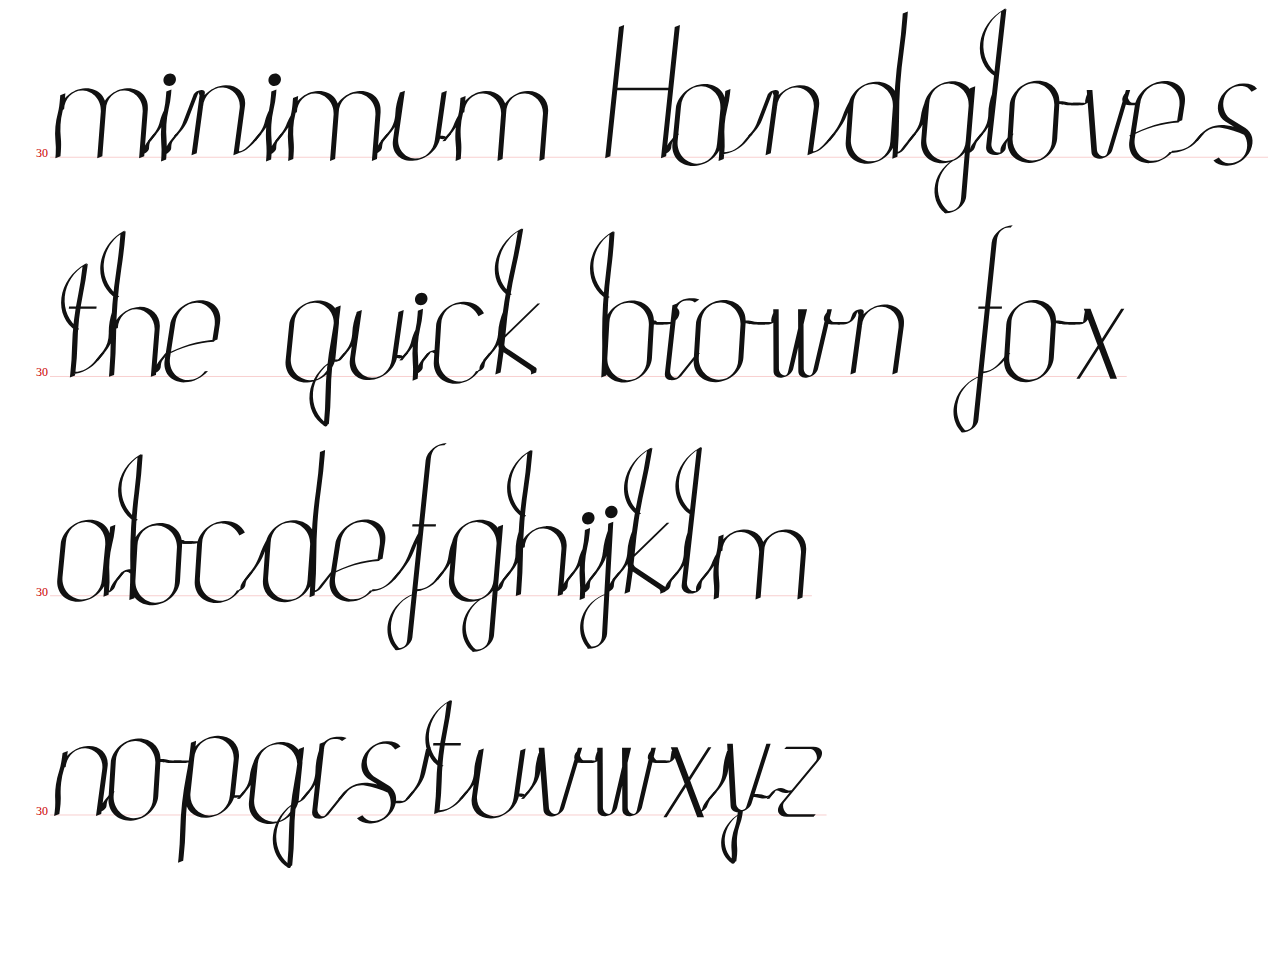
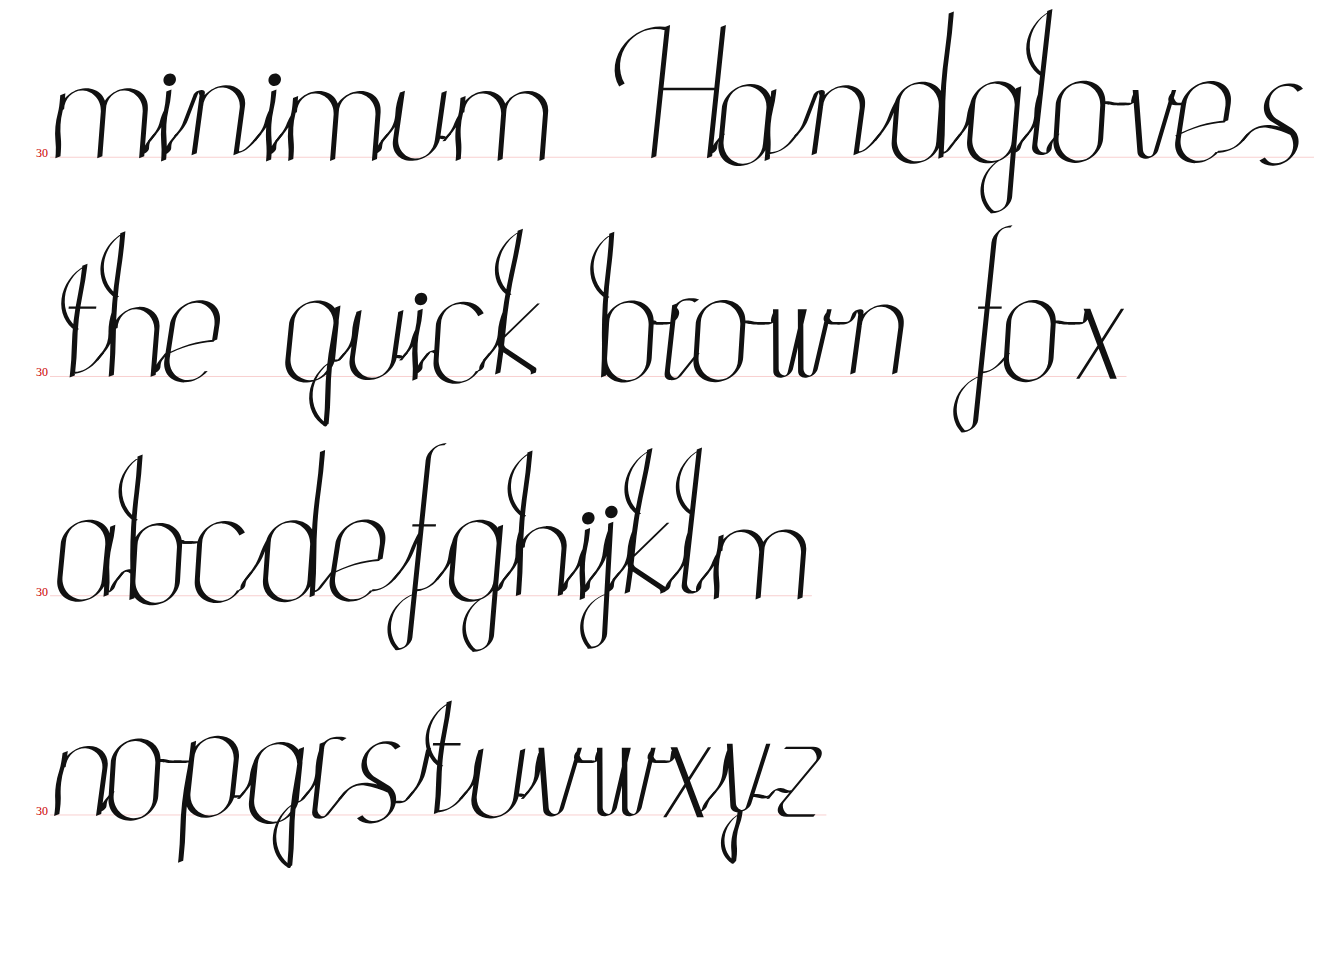
Scripts: summary and screenshots for the written capitals and loop tips
Claude-Session: https://claude.ai/code/session_012KtrgbXSJXhB2Pb2YU47zC

diff --git a/SUMMARY-script.md b/SUMMARY-script.md
@@ -158,6 +158,14 @@ each as it was are in `docs/polish/script/problems/`.
 - **The tests** now draw every fifth weight and the weights where folds were
   found, capitals included, and export all five joined faces as variable
   fonts.
+- **Printed capitals.** B D E F H I K L M N P R T U V W X Y Z have a written
+  form on the joined faces: the drawn capital entered with a hairline swash
+  that lands half a pen into its first stroke. The round capitals keep their
+  own curves, and the G and the J are left out because their first stroke
+  starts at the top left at some weights and not at others.
+- **Loop tips on a broad nib.** The eye's end is set down inside its stem by
+  about its own half-width, so the head of a looped letter is the nib's own
+  cut rather than a small horn beside it.
 
 ## Results
 
@@ -183,20 +191,14 @@ on the old code. `npx tsc -b --noEmit`, `npx biome check .` and
 
 ## What remains
 
-- **Capitals on the joined faces are print capitals.** They lean and join
-  onward, but they are the Sans's letters. Written capitals would be a new set
-  of 26 drawings, which is a design project rather than a fault, and the
-  capital recipes are shared with the other faces.
 - **Heavy scripts are squat.** A 260 pen on a 332 to 420 unit x-height is a
   stem of two thirds of the x-height or more. Every counter is open and every
-  join is clean, but the faces read as a heavy display script there. The
-  Roundhand's bowls keep a fifth of an x-height squared of counter at 260,
-  about half what the other joined faces keep.
-- **Nib-pen loop tips.** On the Handwriting and the Casual Script the eye's
-  round end stands 2 to 4 units past the corner of the stem's flat top, under
-  1% of the x-height and invisible at text size. A square end was tried and
-  is worse on the Roundhand, whose round end fills the nick at the foot of
-  every loop.
+  join is clean, but the faces read as a heavy display script there. Measured
+  in units, the counters at 260 are 35,000 to 53,000 square units on every
+  joined face, all about 160 units tall: the x-height less the pen.
+- **Round capitals.** The C, G, J, O, Q and S on the joined faces are the
+  drawn capitals, leaning; they have curves of their own rather than a stroke
+  to enter by.
 - **Node counts without the exporter's book.** Node counts are equal across
   weights through the export path, which is what a variable font uses. A
   letter drawn at an arbitrary slider weight without the book can still bow a
